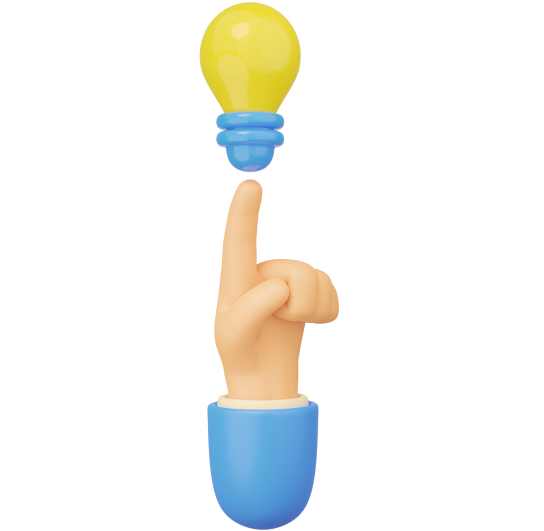
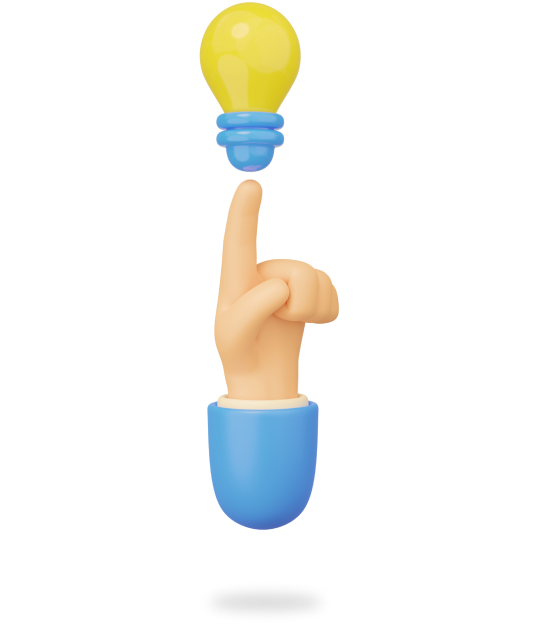
add modal and update images

Changed region(s): [[0.3438, 0.0, 0.625, 1.0]]

diff --git a/src/app/try-demo/page.tsx b/src/app/try-demo/page.tsx
@@ -1,109 +1,12 @@
-'use client';
-import { useForm, SubmitHandler } from 'react-hook-form';
-
-type Inputs = {
-  name: string;
-  company: string;
-  state: string;
-  city: string;
-  email: string;
-  mobile: string;
-  foundVia?: string;
-};
+import { TryDemoForm } from "../../components/try-demo-form";
 
 export default function TryDemoPage() {
-  const { register, handleSubmit, formState: { errors } } = useForm<Inputs>();
-
-  const onSubmit: SubmitHandler<Inputs> = async (data) => {
-    try {
-      console.log(data);
-    } catch (error) {
-      console.error(error);
-    }
-  };
 
   return (
     <main className="container mx-auto">
       <h1 className="text-primary font-bold text-2xl text-center my-8">Try Our Demo</h1>
 
-      <form onSubmit={handleSubmit(onSubmit)} className="mx-auto w-full md:w-1/2 mb-8">
-        <div className="mb-4">
-          <label htmlFor="name" className="block text-gray-700 text-sm">Name</label>
-          <input
-            type="text"
-            id="name"
-            {...register("name", { required: true })}
-            className="w-full border p-2 rounded"
-          />
-          {errors.name && <p className="text-red-500 text-sm">Name is required</p>}
-        </div>
-        <div className="mb-4">
-          <label htmlFor="company" className="block text-gray-700 text-sm">Company</label>
-          <input
-            type="text"
-            id="company"
-            {...register("company", { required: true })}
-            className="w-full border p-2 rounded"
-          />
-          {errors.company && <p className="text-red-500 text-sm">Company is required</p>}
-        </div>
-        <div className="mb-4">
-          <label htmlFor="email" className="block text-gray-700 text-sm">Email</label>
-          <input
-            type="email"
-            id="email"
-            {...register("email", { required: true })}
-            className="w-full border p-2 rounded"
-          />
-          {errors.email && <p className="text-red-500 text-sm">Email is required</p>}
-        </div>
-        <div className="mb-4">
-          <label htmlFor="state" className="block text-gray-700 text-sm">State</label>
-          <input
-            type="text"
-            id="state"
-            {...register("state", { required: true })}
-            className="w-full border p-2 rounded"
-          />
-          {errors.state && <p className="text-red-500 text-sm">State is required</p>}
-        </div>
-        <div className="mb-4">
-          <label htmlFor="city" className="block text-gray-700 text-sm">City</label>
-          <input
-            type="text"
-            id="city"
-            {...register("city", { required: true })}
-            className="w-full border p-2 rounded"
-          />
-          {errors.city && <p className="text-red-500 text-sm">City is required</p>}
-        </div>
-        <div className="mb-4">
-          <label htmlFor="mobile" className="block text-gray-700 text-sm">Mobile</label>
-          <input
-            type="tel"
-            id="mobile"
-            {...register("mobile", { required: true, pattern: /^[0-9]{10}$/i })}
-            className="w-full border p-2 rounded"
-          />
-          {errors.mobile && <p className="text-red-500 text-sm">Mobile is required</p>}
-        </div>
-        <div className="mb-4">
-          <label htmlFor="foundVia" className="block text-gray-700 text-sm">How did you find us? (optional)</label>
-          <select id="foundVia" {...register('foundVia')} className="w-full border p-2 rounded">
-            <option value="Internet">Internet</option>
-            <option value="Social Media Ads">Social Media Ads</option>
-            <option value="Referred by someone">Referred by someone</option>
-            <option value="Others">Others</option>
-          </select>
-        </div>
-        {/* Add reCAPTCHA here */}
-        <button
-          type="submit"
-          className="bg-primary text-white p-2 rounded hover:bg-green-700 transition duration-300"
-        >
-          Submit
-        </button>
-      </form>
+      <TryDemoForm />
     </main>
   );
 }

diff --git a/src/components/header.tsx b/src/components/header.tsx
@@ -1,42 +1,70 @@
+'use client';
 import Link from 'next/link';
-import React from 'react';
+import React, { useState } from 'react';
+import Modal from './Modal';
+import ContactForm from './contact-form';
+import { TryDemoForm } from './try-demo-form';
 
 export const Header = () => {
   const navLinks = [
     { title: 'Home', path: '/' },
     { title: 'About', path: '/about' },
     { title: 'Solution', path: '/solution' },
-    { title: 'Contact', path: '/contact' },
-    { title: 'Try Demo', path: '/try-demo' },
+    // { title: 'Contact', path: '/contact' },
+    // { title: 'Try Demo', path: '/try-demo' },
   ]
+  const [isContactFormOpen, setIsContactFormOpen] = useState(false);
+  const openContactForm = () => setIsContactFormOpen(true);
+  const closeContactForm = () => setIsContactFormOpen(false);
+
+  const [isTryDemoFormOpen, setIsTryDemoFormOpen] = useState(false);
+  const openTryDemoForm = () => setIsTryDemoFormOpen(true);
+  const closeTryDemoForm = () => setIsTryDemoFormOpen(false);
+
   return (
-    <header className="bg-white min-h-[64px] flex">
-      <div className="container mx-auto flex justify-between items-center px-4 md:px-0">
-        {/* Logo on the left */}
-        <Link className="flex items-center" href={'/'}>
-          <img src="/logo.png" alt="Logo" className="h-[56px]" />
-        </Link>
+    <>
+      <header className="bg-white min-h-[64px] flex">
+        <div className="container mx-auto flex justify-between items-center px-4 md:px-0">
+          {/* Logo on the left */}
+          <Link className="flex items-center" href={'/'}>
+            <img src="/logo.png" alt="Logo" className="h-[56px]" />
+          </Link>
 
-        <div className="flex items-center ">
+          <div className="flex items-center ">
 
-          {/* Links on the right */}
-          <nav className="hidden md:block">
-            {
-              navLinks.map(link => (
-                <Link href={link.path} key={link.title} className="text-secondary font-semibold text-sm mx-4 py-2 hover:border-b-2 hover:border-b-primary">
-                  {link.title}
-                </Link>
-              ))
-            }
-          </nav>
+            {/* Links on the right */}
+            <nav className="hidden md:block">
+              {
+                navLinks.map(link => (
+                  <Link href={link.path} key={link.title} className="text-secondary font-semibold text-sm mx-4 py-2 hover:border-b-2 hover:border-b-primary">
+                    {link.title}
+                  </Link>
+                ))
+              }
+            </nav>
 
-          {/* Rounded background download button */}
-          <a href="#" className="bg-secondary text-white font-semibold ml-8 text-sm py-2 px-6 rounded-full  hover:bg-primary">
-            Download
-          </a>
+            <button onClick={openContactForm} className="text-secondary font-semibold text-sm mx-4 py-2 hover:border-b-2 hover:border-b-primary">Contact</button>
+            <button onClick={openTryDemoForm} className="text-secondary font-semibold text-sm mx-4 py-2 hover:border-b-2 hover:border-b-primary">Try Demo</button>
+            {/* Rounded background download button */}
+            <Link href="#" className="bg-secondary text-white font-semibold ml-8 text-sm py-2 px-6 rounded-full  hover:bg-primary">
+              Download
+            </Link>
 
+          </div>
         </div>
-      </div>
-    </header>
+      </header>
+
+      {isContactFormOpen && (
+        <Modal onClose={closeContactForm}>
+          <ContactForm />
+        </Modal>
+      )}
+
+      {isTryDemoFormOpen && (
+        <Modal onClose={closeTryDemoForm}>
+          <TryDemoForm />
+        </Modal>
+      )}
+    </>
   );
 }

diff --git a/src/components/try-demo-form.tsx b/src/components/try-demo-form.tsx
@@ -1,0 +1,105 @@
+'use client';
+import { useForm, SubmitHandler } from 'react-hook-form';
+
+type Inputs = {
+  name: string;
+  company: string;
+  state: string;
+  city: string;
+  email: string;
+  mobile: string;
+  foundVia?: string;
+};
+
+export const TryDemoForm = () => {
+  const { register, handleSubmit, formState: { errors } } = useForm<Inputs>();
+
+  const onSubmit: SubmitHandler<Inputs> = async (data) => {
+    try {
+      console.log(data);
+    } catch (error) {
+      console.error(error);
+    }
+  };
+
+  return (
+    <form onSubmit={handleSubmit(onSubmit)} className="mx-auto p-4">
+      <div className="mb-4">
+        <label htmlFor="name" className="block text-gray-700 text-sm">Name</label>
+        <input
+          type="text"
+          id="name"
+          {...register("name", { required: true })}
+          className="w-full border p-2 rounded"
+        />
+        {errors.name && <p className="text-red-500 text-sm">Name is required</p>}
+      </div>
+      <div className="mb-4">
+        <label htmlFor="company" className="block text-gray-700 text-sm">Company</label>
+        <input
+          type="text"
+          id="company"
+          {...register("company", { required: true })}
+          className="w-full border p-2 rounded"
+        />
+        {errors.company && <p className="text-red-500 text-sm">Company is required</p>}
+      </div>
+      <div className="mb-4">
+        <label htmlFor="email" className="block text-gray-700 text-sm">Email</label>
+        <input
+          type="email"
+          id="email"
+          {...register("email", { required: true })}
+          className="w-full border p-2 rounded"
+        />
+        {errors.email && <p className="text-red-500 text-sm">Email is required</p>}
+      </div>
+      <div className="mb-4">
+        <label htmlFor="state" className="block text-gray-700 text-sm">State</label>
+        <input
+          type="text"
+          id="state"
+          {...register("state", { required: true })}
+          className="w-full border p-2 rounded"
+        />
+        {errors.state && <p className="text-red-500 text-sm">State is required</p>}
+      </div>
+      <div className="mb-4">
+        <label htmlFor="city" className="block text-gray-700 text-sm">City</label>
+        <input
+          type="text"
+          id="city"
+          {...register("city", { required: true })}
+          className="w-full border p-2 rounded"
+        />
+        {errors.city && <p className="text-red-500 text-sm">City is required</p>}
+      </div>
+      <div className="mb-4">
+        <label htmlFor="mobile" className="block text-gray-700 text-sm">Mobile</label>
+        <input
+          type="tel"
+          id="mobile"
+          {...register("mobile", { required: true, pattern: /^[0-9]{10}$/i })}
+          className="w-full border p-2 rounded"
+        />
+        {errors.mobile && <p className="text-red-500 text-sm">Mobile is required</p>}
+      </div>
+      <div className="mb-4">
+        <label htmlFor="foundVia" className="block text-gray-700 text-sm">How did you find us? (optional)</label>
+        <select id="foundVia" {...register('foundVia')} className="w-full border p-2 rounded">
+          <option value="Internet">Internet</option>
+          <option value="Social Media Ads">Social Media Ads</option>
+          <option value="Referred by someone">Referred by someone</option>
+          <option value="Others">Others</option>
+        </select>
+      </div>
+      {/* Add reCAPTCHA here */}
+      <button
+        type="submit"
+        className="bg-primary text-white p-2 rounded hover:bg-green-700 transition duration-300"
+      >
+        Submit
+      </button>
+    </form>
+  )
+}

diff --git a/src/components/Modal.tsx b/src/components/Modal.tsx
@@ -1,0 +1,27 @@
+'use client';
+import React from 'react';
+
+const Modal = ({ onClose, children }: {
+  onClose: () => void;
+  children: React.ReactNode;
+}) => {
+  return (
+    <div className="fixed inset-0 flex items-center justify-center z-50 overflow-x-hidden overflow-y-auto">
+      <div className="relative mx-auto max-w-md w-full">
+        <div className="bg-white rounded-lg shadow-xl">
+          <div className="p-4">{children}</div>
+          <div className="p-4 bg-gray-100 flex justify-end">
+            <button
+              onClick={onClose}
+              className="text-gray-600 hover:text-gray-800 focus:outline-none"
+            >
+              Close
+            </button>
+          </div>
+        </div>
+      </div>
+    </div>
+  );
+};
+
+export default Modal;
